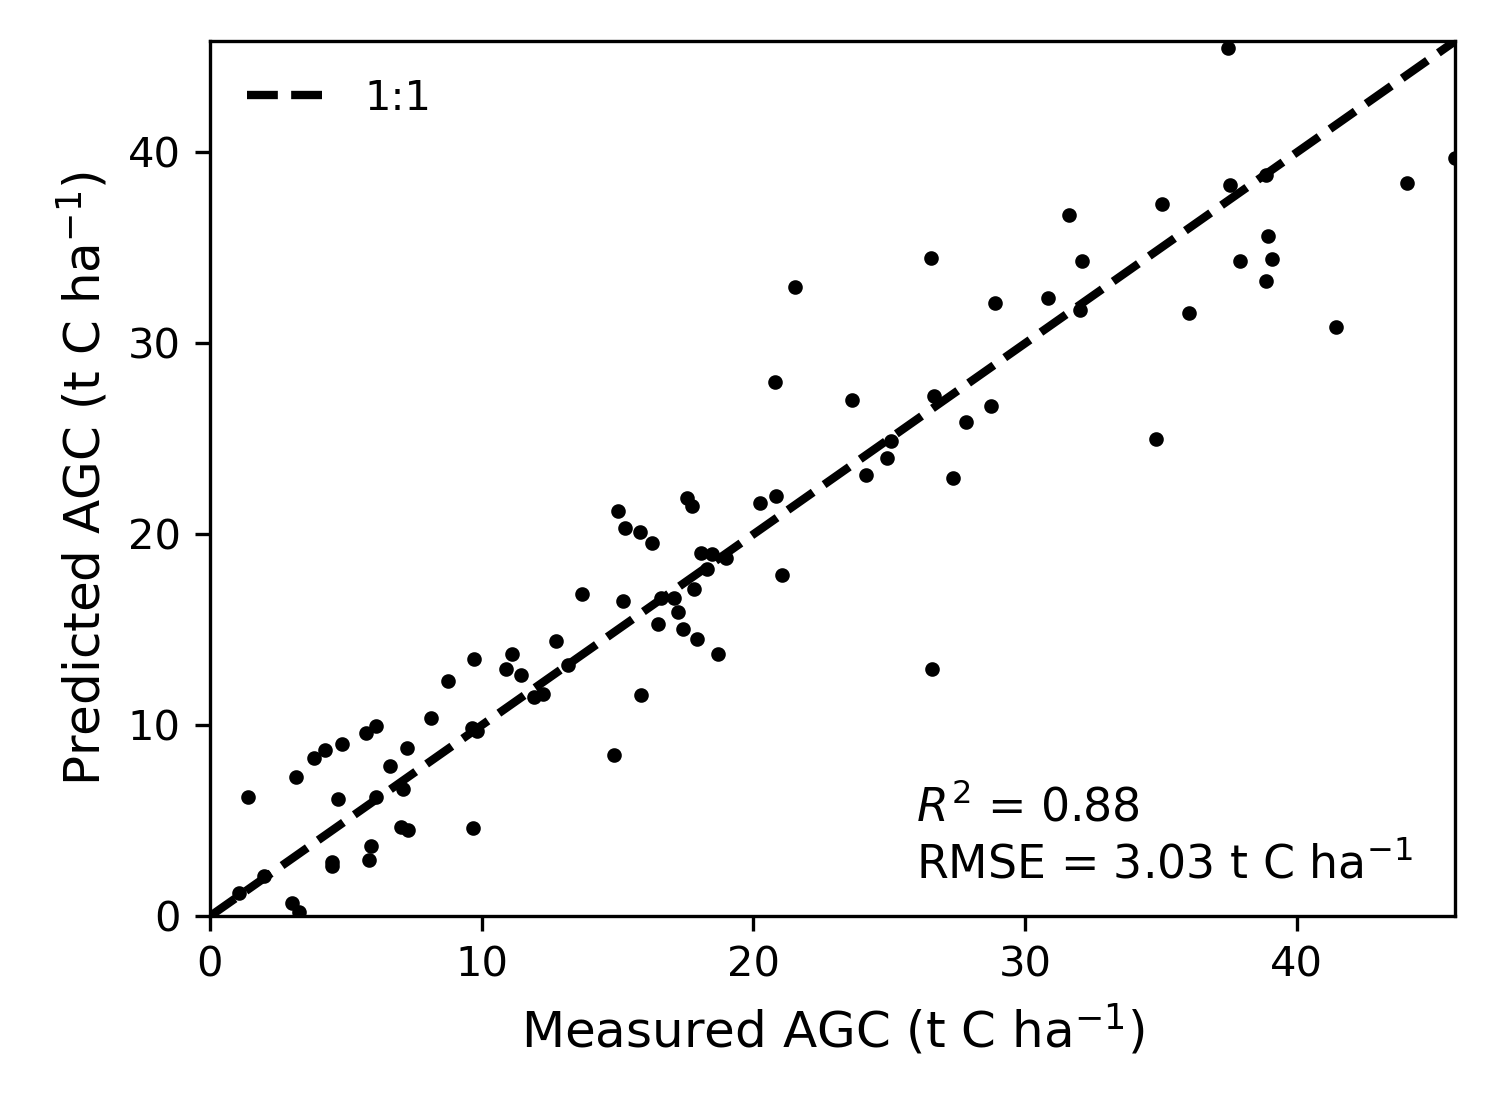
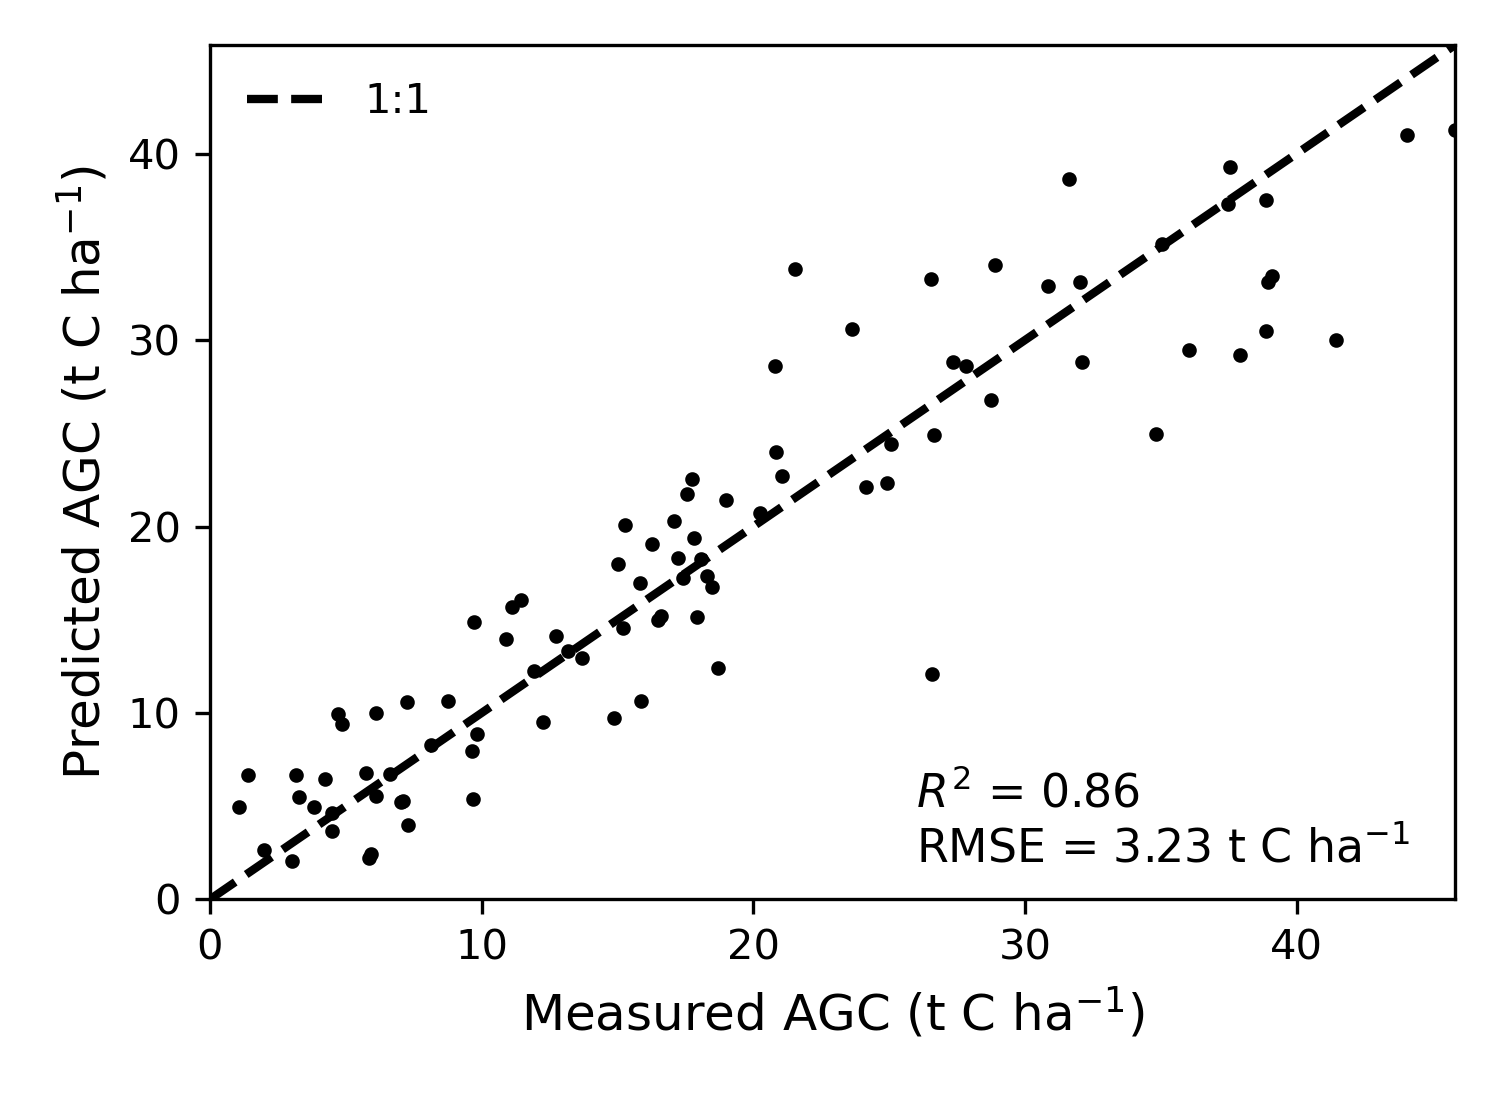
pyplot.show hangs from console and I don't want to force interactive mode, so have removed

diff --git a/scripts/fit_agc_model.py b/scripts/fit_agc_model.py
@@ -80,7 +80,7 @@ if False:
 # TODO - experiment with different cv vals here and below - it has a big effect on what is selected and how it is scored.
 #  Likewise, so do small numerical differences in feats.
 y = im_plot_agc_gdf['data']['AgcHa']
-selected_feats_df, selected_scores =  fs.forward_selection(im_plot_agc_gdf['feats'], y, max_num_feats=25, cv=5,  #cv=X.shape[0] / 5
+selected_feats_df, selected_scores =  fs.forward_selection(im_plot_agc_gdf['feats'], y, max_num_feats=3, cv=5,  #cv=X.shape[0] / 5
                                                            score_fn=None)
 # feat_scores = fs.ranking(im_plot_data_gdf['feats'], y, cv=5, score_fn=None)
 
@@ -137,10 +137,10 @@ scores, predicted = fs.score_model(selected_feats_df.iloc[:, :best_model_idx + 1
 logger.info('Multivariate features:')
 logger.info(selected_feats_df.columns[:best_model_idx+1].to_numpy())
 
-fig = pyplot.figure()
-fig.set_size_inches(5, 4, forward=True)
+f = pyplot.figure()
+f.set_size_inches(5, 4, forward=True)
 vis.scatter_y_actual_vs_pred(y/1000., predicted, scores)
-fig.savefig(root_path.joinpath(r'data/outputs/Plots/meas_vs_pred_agc_multivariate_model_b.png'), dpi=300)
+pyplot.savefig(root_path.joinpath(r'data/outputs/Plots/meas_vs_pred_agc_multivariate_model_b.png'), dpi=300)
 
 best_multivariate_model = linear_model.LinearRegression()
 best_multivariate_model.fit(selected_feats_df.iloc[:, :best_model_idx+1], y/1000)
@@ -161,10 +161,10 @@ scores, predicted = fs.score_model(selected_feats_df.iloc[:, :1], y/1000, model=
 logger.info('Univariate model features:')
 logger.info(selected_feats_df.columns[:1].to_numpy())
 
-fig = pyplot.figure()
-fig.set_size_inches(5, 4, forward=True)
+f = pyplot.figure()
+f.set_size_inches(5, 4, forward=True)
 vis.scatter_y_actual_vs_pred(y/1000., predicted, scores)
-fig.savefig(root_path.joinpath(r'data/outputs/Plots/meas_vs_pred_agc_univariate_model_b.png'), dpi=300)
+pyplot.savefig(root_path.joinpath(r'data/outputs/Plots/meas_vs_pred_agc_univariate_model_b.png'), dpi=300)
 
 # fitting
 best_univariate_model = linear_model.LinearRegression(fit_intercept=True)

diff --git a/agc_estimation/visualisation.py b/agc_estimation/visualisation.py
@@ -157,7 +157,6 @@ def scatter_ds(data, x_col=None, y_col=None, class_col=None, label_col=None, thu
             pyplot.legend(handles, classes, fontsize=12)
         else:
             pyplot.legend(classes, fontsize=12)
-    # pyplot.show()
     pyplot.pause(0.1)
     return r ** 2, rmse
 
@@ -192,7 +191,6 @@ def scatter_y_actual_vs_pred(y, pred, scores, xlabel='Measured AGC (t C ha$^{-1}
                fontdict={'size': 11})
     pyplot.text(26, 2, str.format('RMSE = {0:.2f} t C ha{1}',np.abs(scores['test_-RMSE']).mean(),'$^{-1}$'),
                fontdict={'size': 11})
-    pyplot.show()
     pyplot.tight_layout()
     pyplot.legend([h], ['1:1'], frameon=False)
     pyplot.pause(0.1)   # hack to get around pyplot bug when saving figure
